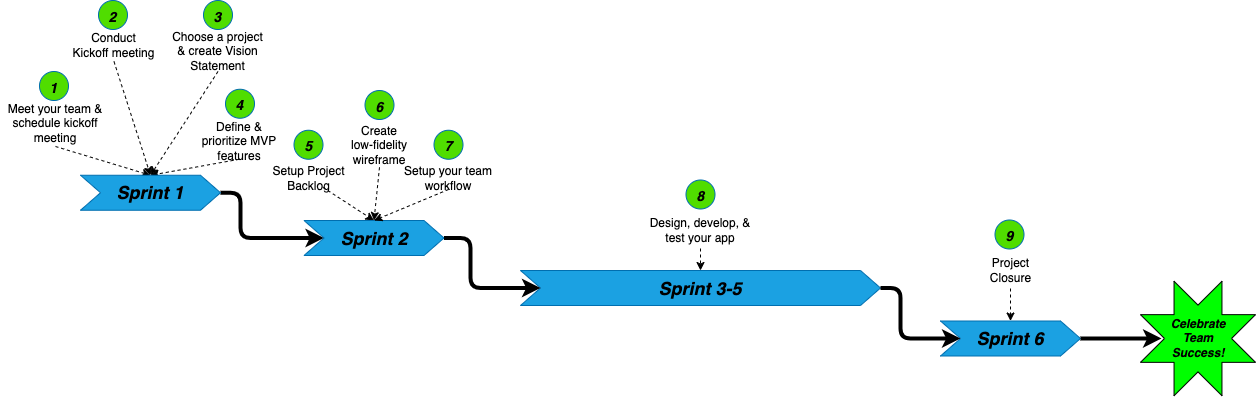
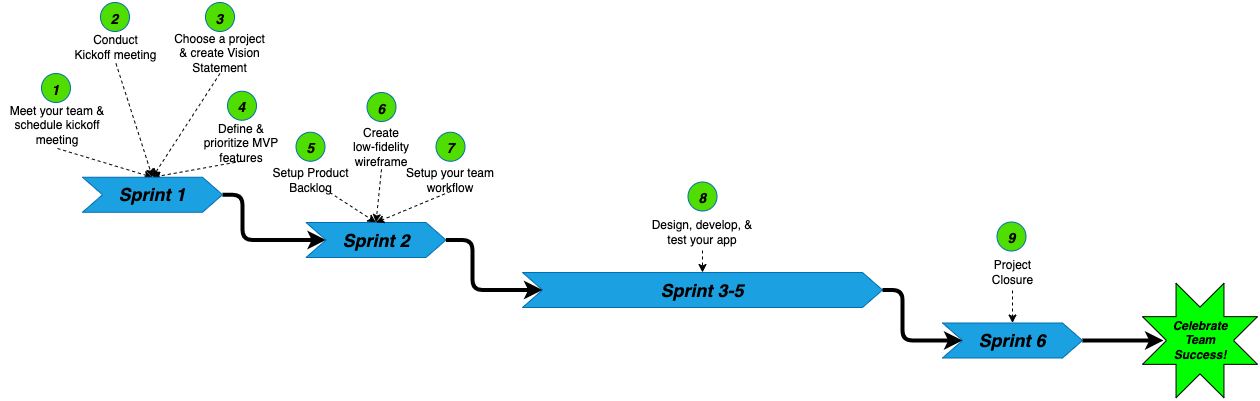
Fix: Change 'Project Backlog' to 'Product Backlog'
Change 'Project Backlog' to 'Product Backlog' in the Voyage Guide so it correctly aligns with accepted Agile Methodology terminology.

diff --git a/docs/guides/voyage/voyage.md b/docs/guides/voyage/voyage.md
@@ -1,6 +1,6 @@
 # Voyage Guide
 
-![Team creating project backlog](./assets/Team_creating_agile_backlog_board.jpeg)
+![Team creating product backlog](./assets/Team_creating_agile_backlog_board.jpeg)
 
 ## What are Voyages❓
 
@@ -268,7 +268,7 @@ If you need another repo, [open a ticket](https://discord.com/channels/330284646
   - [ ]  Prioritize each feature - *Must Have*, *Should Have*, *Nice to Have*
   - [ ]  Meet with the team to review each feature & refine priorities
   
-  Once you’ve agreed on the features and their priorities you can add them to the Project Backlog.
+  Once you’ve agreed on the features and their priorities you can add them to the Product Backlog.
   
   *Must Have* features define your MVP, while features in the other two priorities are “stretch goals'' to be worked on when you’ve implemented all the *Must Have*s.
   
@@ -282,11 +282,11 @@ If you need another repo, [open a ticket](https://discord.com/channels/330284646
 
   ---
   
-  #### 5. Setup Project Backlog 📋
+  #### 5. Setup Product Backlog 📋
       
   **Objective**
   
-  The [Project Backlog](../../resources/glossary/glossary.md) is where you 
+  The [Product Backlog](../../resources/glossary/glossary.md) is where you 
   track the work that needs to be completed to finish the project.
 
   > If you are creating your Voyage project based on specifications provided by
@@ -301,13 +301,13 @@ If you need another repo, [open a ticket](https://discord.com/channels/330284646
   - [ ]  Add your epics & user stories to a backlog tool. In prior Voyages, teams have used tools like Jira, Miro, GitHub Projects, ZenHub, and others as well.
   - [ ]  Prioritize the user stories
   
-  During the Voyage you’ll refine the Project Backlog and in every Sprint you’ll move tasks from it to the Sprint Backlog. This is part of the Agile process which helps you and your team concentrate only on the tasks that must be completed in that Sprint.
+  During the Voyage you’ll refine the Product Backlog and in every Sprint you’ll move tasks from it to the Sprint Backlog. This is part of the Agile process which helps you and your team concentrate only on the tasks that must be completed in that Sprint.
   
   **Resources**
   
   [Define Your MVP]((../../resources/glossary/glossary.md))
   
-  [How to Create a Project Backlog (video)](https://youtu.be/FaoT-DTtXyA)
+  [How to Create a Product Backlog (video)](https://youtu.be/FaoT-DTtXyA)
   
   [Agile Methodology 101 (article)](../../resources/projresources/agile101.md)
   
